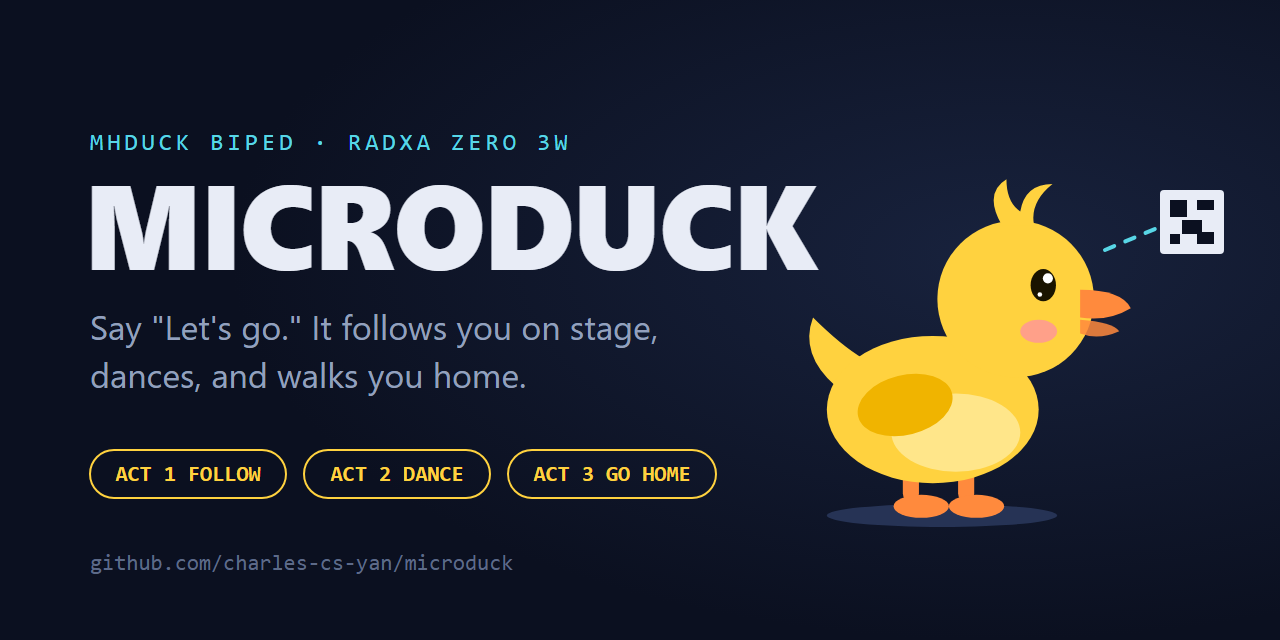
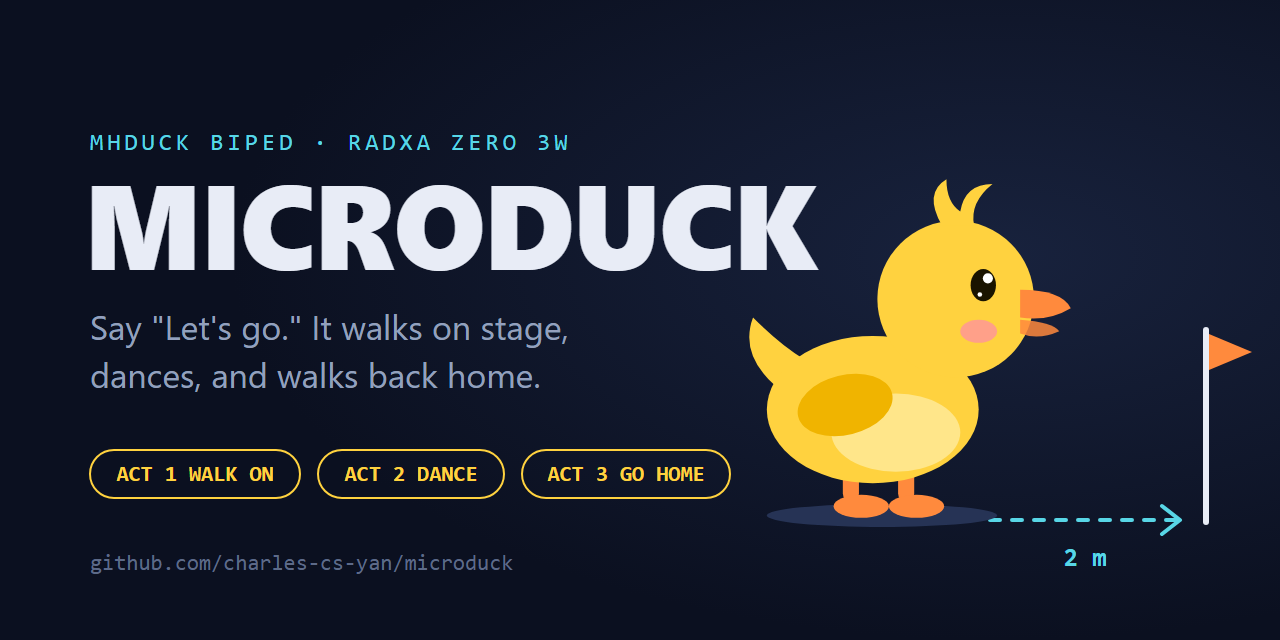
Visuals: straight-line show replaces marker following
Banner, show flow, architecture and social preview now show the scripted
2 m walk instead of the ArUco marker.

diff --git a/README.md b/README.md
@@ -22,7 +22,7 @@ _Say "Let's go."_
 <br>
 
 <div align="center">
-  <img src="docs/assets/banner.svg" alt="Act 1 follow, Act 2 dance, Act 3 go home" width="100%">
+  <img src="docs/assets/banner.svg" alt="Act 1 walk on, Act 2 dance, Act 3 go home" width="100%">
 </div>
 
 <br>
@@ -51,7 +51,7 @@ IMU and servo health, and the module stops the duck whenever it loses its target
 | 3 | **"Let's go home"** | Turns 180° and walks straight 2 m off stage | `h` |
 
 <div align="center">
-  <img src="docs/assets/show-flow.svg" alt="Show flow: idle, then follow on Let's go, idle when the host stops, dance on Let's party, home on Let's go home, follow once turned 180 degrees, idle on key s" width="100%">
+  <img src="docs/assets/show-flow.svg" alt="Show flow: idle, walk straight 2 m on Let's go, idle on stage, dance on Let's party, turn 180 degrees on Let's go home, walk straight 2 m back, idle off stage" width="100%">
 </div>
 
 **Show mode (since 2026-11-25): scripted.** Marker following was unreliable in rehearsal, so the show
@@ -160,7 +160,7 @@ the marker-following show, which stops the media daemon and needs sudo.
 ## Architecture
 
 <div align="center">
-  <img src="docs/assets/architecture.svg" alt="Architecture: microphone, camera and keyboard feed follow.app, which passes every motion request through MotionGuard to robotd over its socket" width="100%">
+  <img src="docs/assets/architecture.svg" alt="Architecture: microphone, backup camera and keyboard feed follow.app, which passes every motion request through MotionGuard to robotd over its socket" width="100%">
 </div>
 
 The module is only ever a **client** of `robotd`. It sends intents over the socket and never touches motor,
